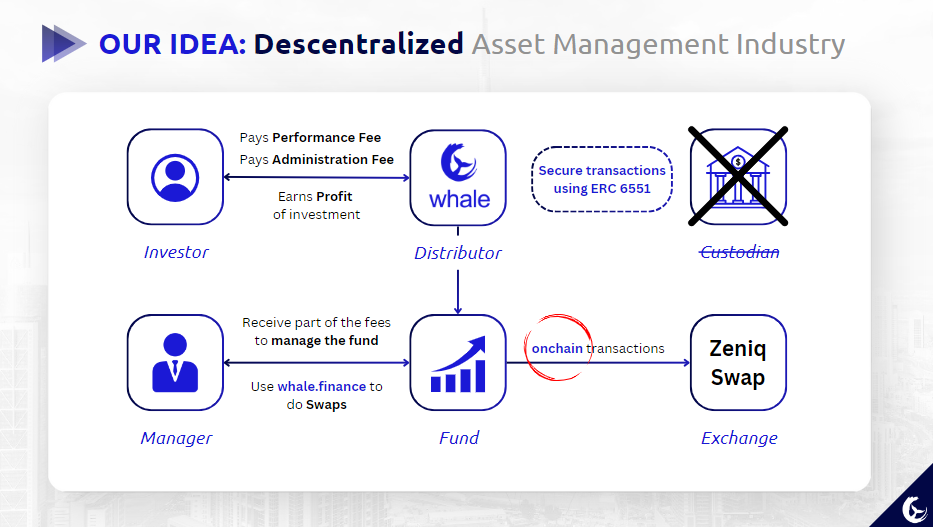
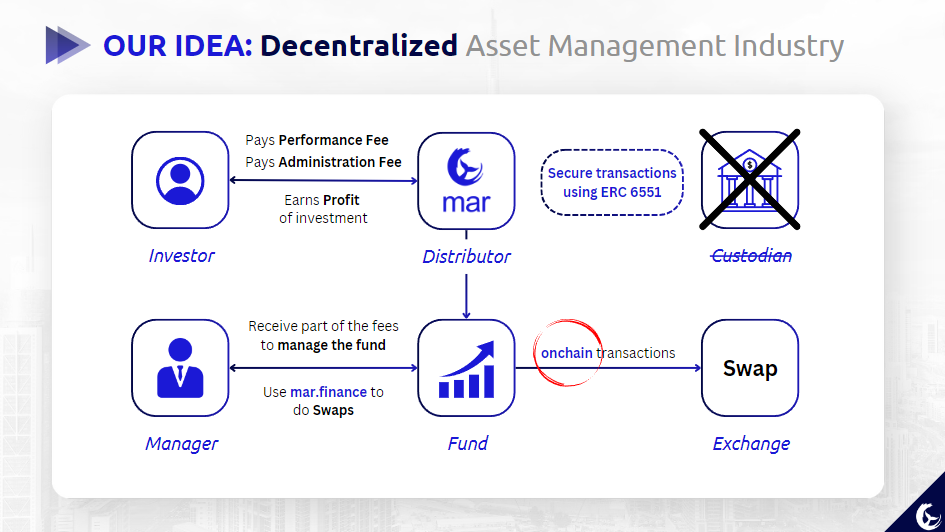
mar

diff --git a/frontend/src/pages/Home/Home.tsx b/frontend/src/pages/Home/Home.tsx
@@ -9,7 +9,7 @@ export default function Home() {
                 <section className='w-full flex flex-col items-center'>
                     <div className="w-full h-[90vh] flex flex-col justify-center items-center bg-cover bg-[url('././assets/burj_khalifa_blue.png')]">
                         <img className='w-[40vw] lg:w-[20vw] lg:mt-36' src={LogoApp} />
-                        <p className='text-white mt-6 italic text-xl'>Descentralized Asset Management</p>
+                        <p className='text-white mt-6 italic text-xl'>Decentralized Asset Management</p>
                         <div className='w-[100%] mt-16 mb-28 grid grid-cols-1 justify-center items-center md:w-[80%] md:grid-cols-2 lg:w-[60%] lg:grid-cols-2'>
                             <li className='flex justify-center'><a className="px-20 py-3 text-xm font-bold bg-blue-color text-white hover:bg-white hover:text-secondary-color transition duration-1000 ease-in-out rounded-full uppercase" href="/fundslist">Invest in Funds</a></li>
                             <li className='flex justify-center mt-8 md:mt-0 lg:mt-0'><a className="px-20 py-3 text-xm font-bold bg-blue-color text-white hover:bg-white hover:text-secondary-color transition duration-1000 ease-in-out rounded-full uppercase" href="/manager">Be a manager</a></li>

diff --git a/frontend/src/pages/FundId/FundId.tsx b/frontend/src/pages/FundId/FundId.tsx
@@ -12,7 +12,6 @@ import { ethers } from 'ethers';
 import { WhaleFinanceAddress, ZusdAddress, scanUrl } from '../../utils/addresses';
 import { QuotaTokenAbi } from '../../contracts/QuotaToken';
 import { WhaleFinanceAbi } from '../../contracts/WhaleFinance';
-import Zusd from '../../assets/zusd.png';
 
 interface PerformanceItem {
     date: string;
@@ -309,7 +308,6 @@ export default function FundId({ account, provider, signer }: FundIdProps) {
                                             <h3 className='italic'>Your ZUSD Balance:</h3>
                                             <div className='flex flex-row items-center justify-center'>
                                                 <p className='font-bold text-blue-color'>{Number(zusdBalance).toFixed(2)}</p>
-                                                <img src={Zusd} alt="zusd" className='w-6 h-6 ml-2' />
                                             </div>
                                         </div>
                                         <div className='grid grid-cols-2'>

diff --git a/frontend/src/pages/SuccessFund/SuccessFund.tsx b/frontend/src/pages/SuccessFund/SuccessFund.tsx
@@ -25,7 +25,7 @@ export default function SuccessInvestment() {
                                 />
                             </div>
                             <h2 className="flex justify-center items-center h-[12vh] mx-6 text-4xl text-center text-secondary-color">
-                                You just created a fund with whale.finance
+                                You just created a fund with mar.finance
                             </h2>
                             <button
                             className="my-6 w-[90%] md:w-[55%] lg:w-[35%] bg-gradient-to-r from-blue-color to-secondary-color text-white font-bold rounded-full border-2 border-transparent py-2 px-20 shadow-lg uppercase tracking-wider hover:from-white hover:to-white hover:text-secondary-color hover:border-secondary-color transition duration-1000 ease-in-out" onClick={() => history('/manager')}

diff --git a/frontend/src/pages/SuccessInvestment/SuccessInvestment.tsx b/frontend/src/pages/SuccessInvestment/SuccessInvestment.tsx
@@ -25,7 +25,7 @@ export default function SuccessInvestment() {
                                 />
                             </div>
                             <h2 className="flex justify-center items-center h-[12vh] mx-6 text-4xl text-center text-secondary-color">
-                                You invested with whale.finance
+                                You invested with mar.finance
                             </h2>
                             <button
                             className="my-6 w-[90%] md:w-[55%] lg:w-[35%] bg-gradient-to-r from-blue-color to-secondary-color text-white font-bold rounded-full border-2 border-transparent py-2 px-20 shadow-lg uppercase tracking-wider hover:from-white hover:to-white hover:text-secondary-color hover:border-secondary-color transition duration-1000 ease-in-out" onClick={() => history('/investor')}

diff --git a/frontend/index.html b/frontend/index.html
@@ -4,7 +4,7 @@
     <meta charset="UTF-8" />
     <link rel="icon" type="image/svg+xml" href="/whale_icon.png" />
     <meta name="viewport" content="width=device-width, initial-scale=1.0" />
-    <title>Whale Finance</title>
+    <title>Mar Finance</title>
   </head>
   <body>
     <div id="root"></div>
